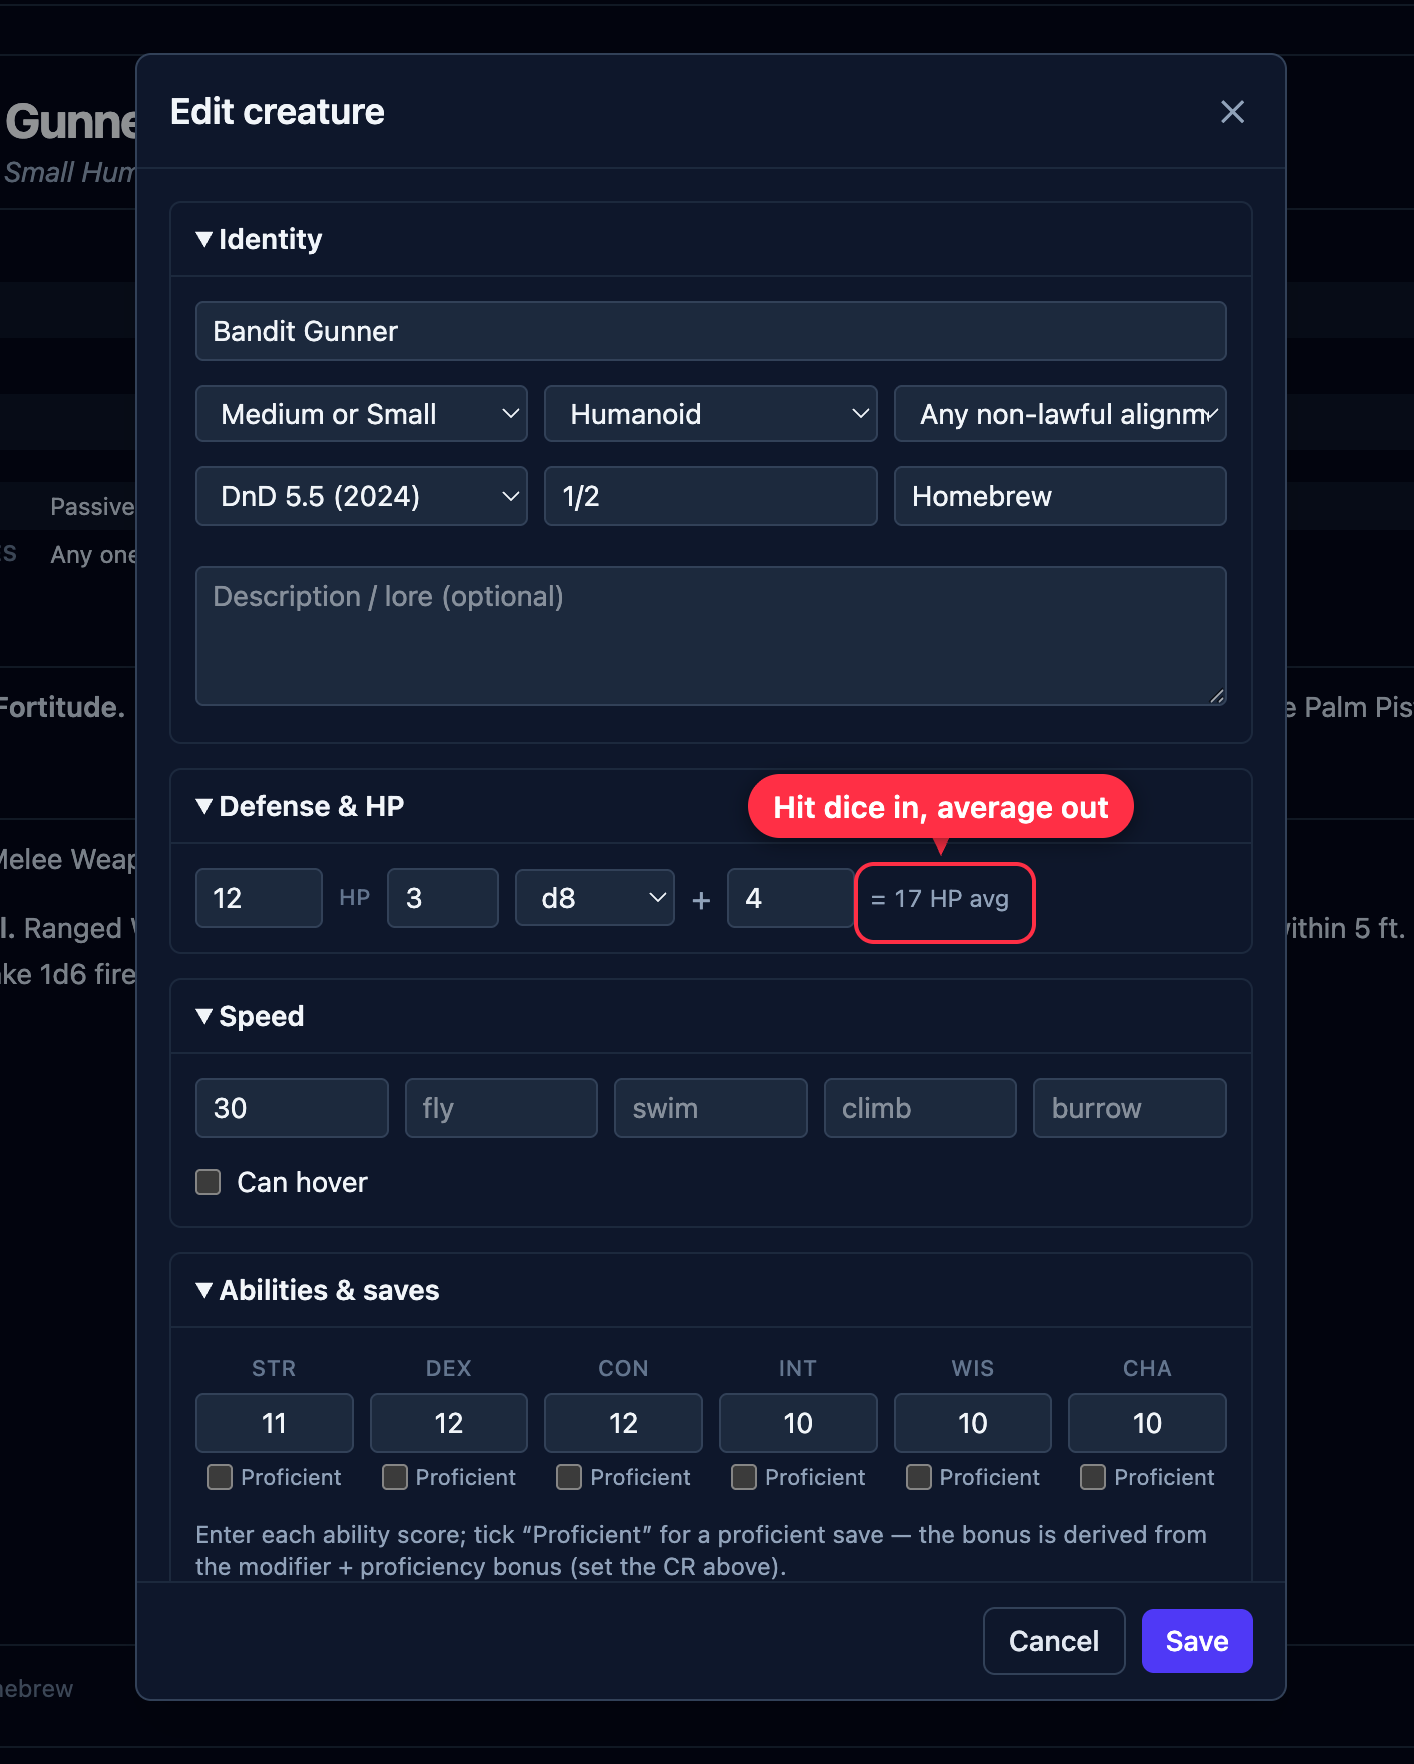
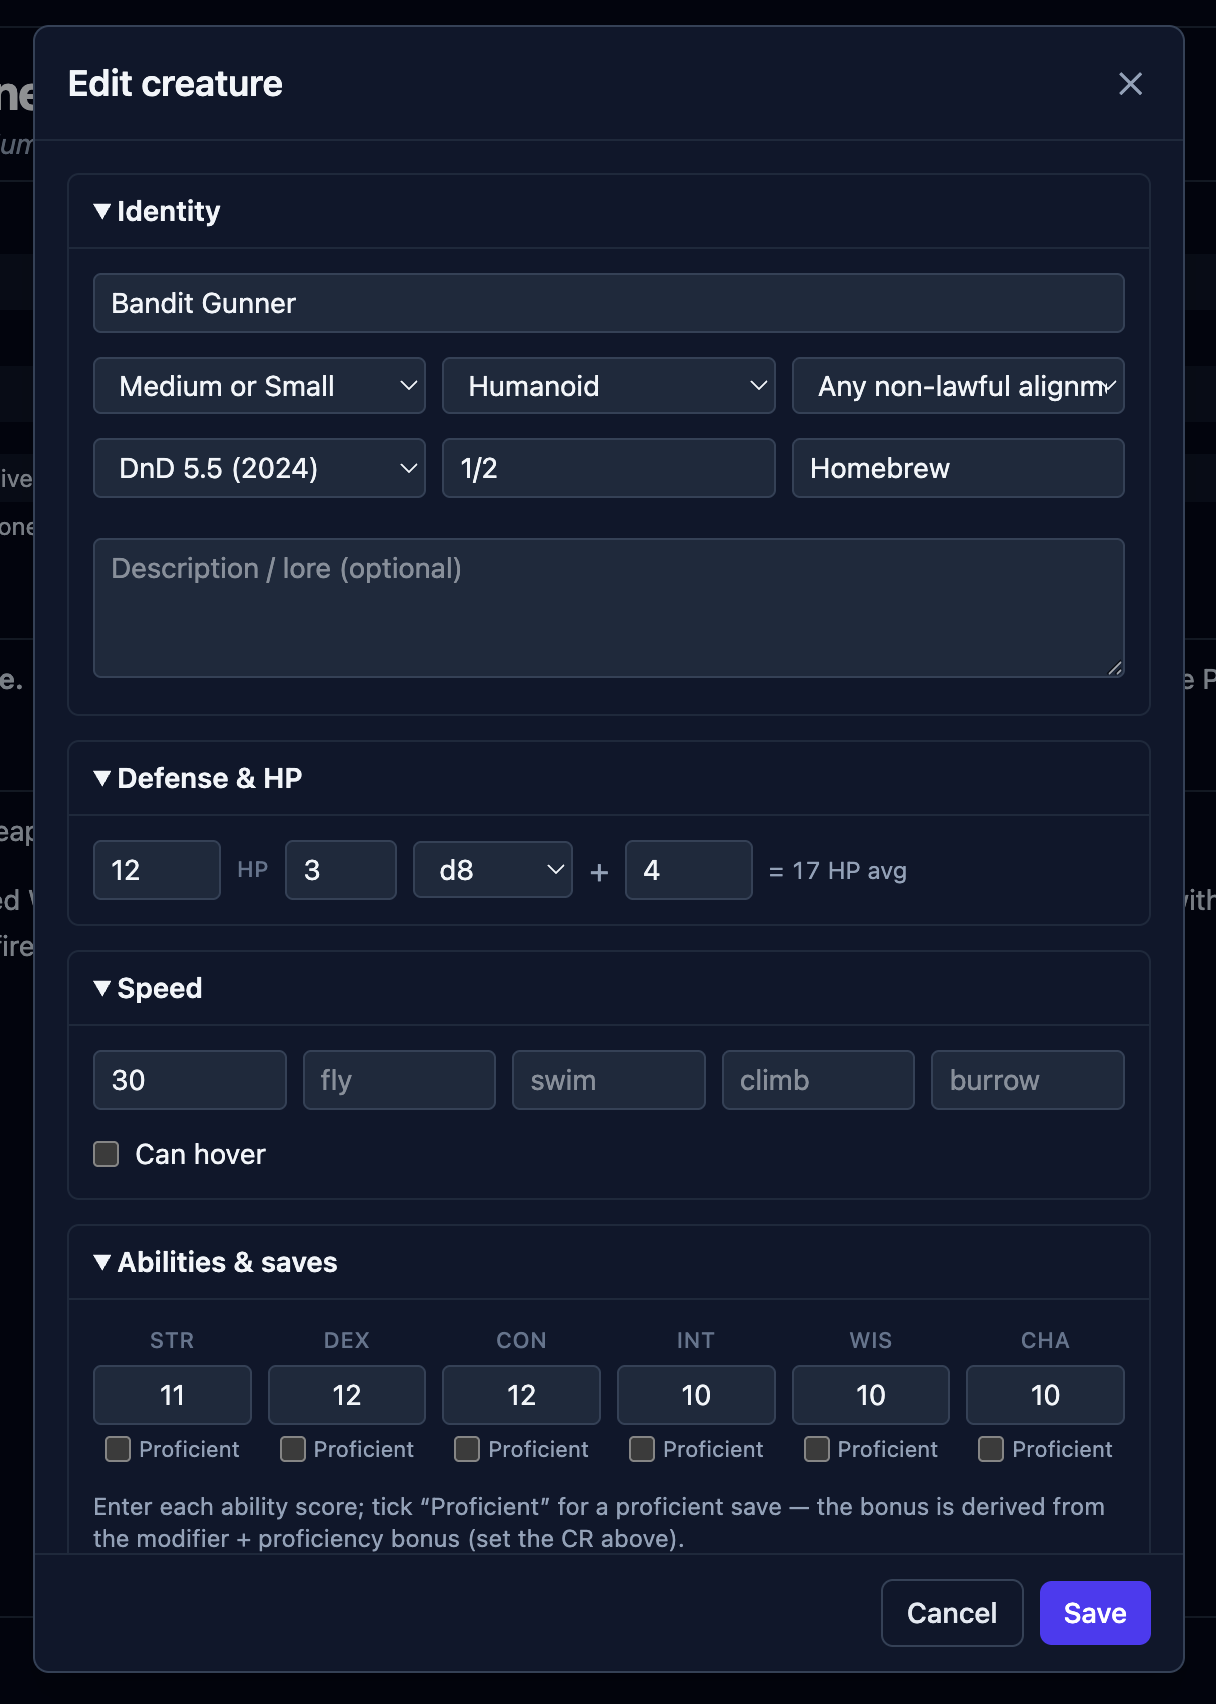
Docs: library/settings revisions, SEO frontmatter, and alt text
Compendium, settings, campaigns, making-your-own, and importer pages: content
revisions (split-out sections, sign-in notes, the full rule-set list, importer
Options and toolbar-pin steps with new screenshots).

Also: SEO description + keywords frontmatter on compendium and settings (held
back from the earlier SEO commit because their bodies were mid-edit); restored
descriptive alt text on the seven re-shot/added screenshots per STYLE.md; and
two typo fixes on making-your-own ("Creatig" and "One thing are").

diff --git a/docs/src/content/docs/library/compendium.md b/docs/src/content/docs/library/compendium.md
@@ -1,12 +1,17 @@
 ---
 title: The compendium
-description: The built-in reference of creatures, spells, characters, and campaigns — and how to turn different rule sets on or off.
+description: The built-in Dungeons and Dragons 5e reference of creatures, spells, characters, and campaigns — and how to turn different rule sets on or off.
+keywords:
+  - Dungeons and Dragons 5e SRD compendium
+  - DnD 5e monster and spell reference
+  - 5e stat blocks
+  - 2014 and 2024 rule sets
 ---
 
 The **compendium** is the reference OpenFray keeps for you. Open it with the book icon at
 the top of the screen.
 
-![The compendium, with its tabs, list and reading pane outlined in red and numbered one to three.](../../../assets/screens/compendium.png)
+![The compendium open to the Creatures tab, with the book icon that opens it outlined in red in the top toolbar.](../../../assets/screens/compendium.png)
 
 1. **The tabs** — creatures, spells, your characters, your campaigns.
 2. **The list** — search by name; every match shows here.
@@ -16,19 +21,19 @@ the top of the screen.
 Each row in the list is badged with where it came from, so you always know which book and
 which rules you're looking at:
 
-![A few rows of the creature list, with an entry's Core and 5.5e badges outlined in red.](../../../assets/screens/library-badges.png)
+![A few creature-list rows, with the source and edition badges on two entries outlined in red.](../../../assets/screens/library-badges.png)
 
 ## Creatures
 
-Every creature you can use, with its full stat block. This is the same list you pick from
-when you click **Add creature** — choosing one there drops a copy into your fight.
+Every creature you can use from the [rule sets you selected](#rule-sets), with its full stat block. This is the same list you pick from
+when you click **Add creature**.
 
 Each row is badged with the book it came from and which rules it uses, so you always know
-what you're looking at.
+what you're looking at. If it's one of your homebrew creations, the badge will show **Custom**.
 
 ## Spells
 
-Every spell in the [rule sets you have turned on](#rule-sets), with its full card:
+Every spell in the rule sets you selected, with its full card:
 casting time, range, components, how long it lasts, and what it does. You'll see the same
 card when you cast a spell, or when you point at a spell name inside a stat block.
 
@@ -36,30 +41,46 @@ card when you cast a spell, or when you point at a spell name inside a stat bloc
 
 Your saved players. Build a character once — armor, hit points, abilities, resistances,
 senses, and private GM notes — and drop them into any fight instead of typing them in
-again. This one needs an account.
+again.
 
-![The Characters tab, with a saved character selected and Add to encounter, Edit and Delete buttons.](../../../assets/screens/characters-tab.png)
+:::note[Sign in required]
+Saving and reusing player characters requires you to sign in with a free Google or Discord account.
+:::
 
-**Add to encounter** puts them straight on the board. The campaign each character belongs
-to is shown beside their name in the list, so a table's party stays recognisable when you
-run more than one game.
+![The Characters tab with a saved character selected, its stats and GM notes shown, and the Add to encounter button outlined in red.](../../../assets/screens/characters-tab.png)
+
+The campaign each character belongs to is shown beside their name in the list, so a table's party stays recognisable when you
+run more than one game. Click the **Add to encounter** button to add them straight on the initiative tracker.
 
 ## Campaigns
 
 Your games and their house rules. See
-[Campaigns & house rules](/docs/library/campaigns/). This one needs an account too.
+[Campaigns & house rules](/docs/library/campaigns/).
+
+:::note[Sign in required]
+Saving and using campaigns requires you to sign in with a free Google or Discord account.
+:::
 
 ## Rule sets
 
-The compendium shows the books you've turned on. OpenFray ships with Core Rules 2024 and
-2014, and with the Tome of Beasts books — tick the ones your table uses in **Settings**. See
-[Settings & appearance](/docs/reference/settings/#rule-sets).
+The compendium shows the books you've turned on. OpenFray ships with:
 
-## Making your own
+- **Core Rules 2024** (DnD 5.5e) — the newer rules. On by default.
+- **Core Rules 2014** (DnD 5e) — the older rules. Turn this on if that's what your table plays.
+- **Tome of Beasts 1, 2, and 3** (DnD 5e) — three books of extra creatures from Kobold Press.
 
-With an account you can build your own **creatures** and **spells** in a full editor, and
-they're kept in your library next to the built-in ones. See
-[Build your own](/docs/library/making-your-own/). To turn a D&D&nbsp;Beyond creature into an
+Select the ones your table uses in **Settings**. See [Settings & appearance](/docs/reference/settings/#rule-sets).
+
+## Homebrew content
+
+You can build your own **creatures** and **spells** in a full editor, and
+they're kept in your library next to the built-in ones. See [Build your own](/docs/library/making-your-own/).
+
+:::note[Sign in required]
+Creating homebrew creatures and spells requires you to sign in with a free Google or Discord account.
+:::
+
+To turn a D&D&nbsp;Beyond creature into an
 OpenFray creature without retyping it, see [the importer](/docs/library/importer/).
 
 :::note[Where the rules come from]

diff --git a/docs/src/content/docs/library/making-your-own.md b/docs/src/content/docs/library/making-your-own.md
@@ -8,35 +8,33 @@ keywords:
   - custom stat block
 ---
 
-The built-in books don't have everything — some famous creatures aren't in the SRD at
-all, and your table has its own homebrew. So you can build your own, and they sit in
-your library next to the built-in ones, ready to drop into any fight.
+The built-in books don't have everything — some famous creatures aren't in the Core Rules at
+all, and your table has its own homebrew creations. With OpenFray's homebrew content editor you can build your own,
+and they sit in your library next to the built-in ones, ready to drop into any fight.
 
-:::note[Needs an account]
-Your creations are saved to your account, so this needs you to be signed in. Everything
-else in the compendium works without one.
+:::note[Sign in required]
+Homebrew creations are stored in your account. This requires you to sign in with a free Google or Discord account.
 :::
 
 Both editors live in the [compendium](/docs/library/compendium/): open the
 **Creatures** or **Spells** tab and use the create button.
 
-## Making a creature
+## Creating a homebrew creature
 
 The form is a whole stat block, broken into collapsible sections you can work through in
 any order — **Identity**, **Defense & HP**, **Speed**, **Abilities & saves**, then
 skills, senses, traits, actions, reactions, legendary actions and spellcasting.
 
-![The creature editor, with the hit-dice fields and the derived average hit points outlined in red.](../../../assets/screens/custom-creature.png)
+![The creature editor on a Bandit Gunner, with its hit dice giving a derived 17 HP average and the ability scores filled in.](../../../assets/screens/custom-creature.png)
 
-**You enter what's true about the creature, and OpenFray does the arithmetic** from it:
+**You enter the stats of the creature, and OpenFray does the math** from it for you:
 
 - Give it a **challenge rating**, in Identity, and OpenFray knows its proficiency bonus.
   Everything below depends on it, so set it early.
 - In **Defense & HP**, give the **hit dice** — how many, which die, and any modifier. The
-  average appears beside them (_"= 17 HP avg"_), and that's the number the creature
-  enters play with.
+  average appears beside them (_"= 17 HP avg"_).
 - In **Abilities & saves**, type the six scores and tick **Proficient** on the saves it's
-  good at. The bonus is the modifier plus the proficiency bonus; you never type it.
+  good at. The bonus is the modifier plus the proficiency bonus, calculated for you automatically.
 - Skills work the same way — tick proficient, tick expertise where it applies.
 - For an attack, pick **which ability** it swings with. The to-hit is that ability's
   modifier plus proficiency, and the modifier is baked into the damage the way printed
@@ -57,7 +55,11 @@ gives you into **Import a creature**, on the Creatures tab:
 What lands in your library is an ordinary custom creature: editable, yours, and no
 different from one you built by hand.
 
-## Making a spell
+:::tip[Import your existing homebrew creatures]
+If you already created homebrew creatures on D&D Beyond, you can import them into OpenFray with the importer.
+:::
+
+## Creating a homebrew spell
 
 The spell form covers the card, in the same collapsible sections: **Identity** (name,
 level, school, rules version), **Casting** (time, range, duration, concentration, ritual,
@@ -67,10 +69,7 @@ utility spell: OpenFray shows the card and lets you adjudicate.
 
 ![The custom spell editor, showing the Identity, Casting, Description and Mechanics sections.](../../../assets/screens/custom-spell.png)
 
-Two things are worth calling out.
-
-**There's no save DC.** A spell doesn't own its DC — the creature casting it does. Say
-the spell needs a Dexterity save, and OpenFray uses the caster's number when it's cast.
+One thing is worth calling out.
 
 **Casting at higher levels** usually follows a pattern, so you describe the pattern once:
 give the extra damage **per slot above the spell's base level** (or, for a cantrip, per
@@ -78,7 +77,7 @@ tier as the caster levels up), and OpenFray expands that into the actual damage 
 level, showing you the result as you type. For spells that don't follow a neat pattern,
 switch to **Edit each level** and set them by hand.
 
-## Living with your own content
+## Where the homebrew creations live
 
 Your creatures and spells:
 
@@ -89,4 +88,6 @@ Your creatures and spells:
 - can be edited or deleted later from the bottom of their own card.
 
 Editing one **doesn't change a fight already in progress** — a creature you added to the
-board is a copy, taken at the moment you added it. Add it again to pick up your edits.
+initiative tracker is a copy of the one in the compendium, taken at the moment you added it.
+
+You need to add it again to a combat if you want the changes to show.

diff --git a/docs/src/content/docs/library/campaigns.md b/docs/src/content/docs/library/campaigns.md
@@ -10,12 +10,16 @@ keywords:
 
 A **campaign** is where you keep one game together. It holds the rules your table uses,
 so you set them once and they apply to every fight you run. Pick the campaign you're
-running from the box at the bottom of the console. Without a campaign — or without an
-account — OpenFray just uses the standard rules.
+running from the box at the bottom of the console. Without a campaign OpenFray just uses the default rules.
 
 Make and edit campaigns on the **Campaigns** tab of the
 [compendium](/docs/library/compendium/#campaigns). Each one shows its rules at a glance,
 and you can change them right there.
+
+:::note[Sign in required]
+Creating and using a campaign and its rules requires an account. Sign in with a free Google or Discord account.
+Without an account OpenFray uses the default rules.
+:::
 
 ## Which rules it's for
 
@@ -28,13 +32,13 @@ you whether or not you're signed in.
 
 ## House rules
 
-| Rule                    | What you can choose                                                                     |
-| ----------------------- | --------------------------------------------------------------------------------------- |
-| **Critical hit damage** | _Double the dice_ (standard); _Max normal dice + roll crit dice_; or _Double the total_ |
-| **Surprise round**      | _Initiative with disadvantage_ (2024); or _Skip the first turn_ (2014)                  |
-| **Creature HP**         | _Average_, _Roll_, _Min_ or _Max_, applied as each creature joins the fight             |
-| **Initiative ties**     | _Higher Dexterity_; _Players first_; or _Manual_, leaving the order to you              |
-| **Level up**            | _XP_, or _Milestone_                                                                    |
+| Rule                    | What you can choose                                                                              |
+| ----------------------- | ------------------------------------------------------------------------------------------------ |
+| **Critical hit damage** | _Double the dice_ (standard); _Max normal dice + roll crit dice_ (brutal); or _Double the total_ |
+| **Surprise round**      | _Initiative with disadvantage_ (DnD 5.5e); or _Skip the first turn_ (DnD 5e)                     |
+| **Creature HP**         | _Average_, _Roll_, _Min_ or _Max_, calculated as each creature joins the fight                   |
+| **Initiative ties**     | _Higher Dexterity_; _Players first_; or _Manual_, leaving the order to you                       |
+| **Level up**            | _XP_, or _Milestone_                                                                             |
 
 The crit and hit-point rules change the dice OpenFray rolls for creatures — it never
 rolls a player's attack. The surprise and tie rules change the initiative order.
@@ -51,17 +55,15 @@ what applies its rules to the fight in front of you:
 
 ![The campaign picker in the console footer, open, listing the available campaigns.](../../../assets/screens/campaign-picker.png)
 
+Selecting a campaign does not affect the combatants already added in the initiative tracker. Add new creatures to recalculate their hit points,
+or add new player characters as necessary.
+
 ## Leveling up: experience or milestone
 
-- **Experience points** — the usual way. Experience shows on stat blocks and in the
-  end-of-fight summary.
+- **Experience points** — the usual way. The experience points awarded by each creature shows on stat blocks and in the
+  end-of-fight summary, as a total and split for each player on the board (exluding friendly NPCs).
 - **Milestone** — you level the party up at story moments, so experience is just noise.
   Pick this and OpenFray hides it during a fight and in the summary.
 
 The [compendium's creature list](/docs/library/compendium/#creatures) always shows
 experience, whichever you pick — it's a reference, not a scoreboard.
-
-:::note[Needs an account]
-Campaigns are saved to your account, so this needs you to be signed in. Nothing here
-changes what you see without one — you always get the standard rules.
-:::

diff --git a/docs/src/content/docs/library/importer.md b/docs/src/content/docs/library/importer.md
@@ -12,14 +12,16 @@ The **OpenFray Importer** is a free browser add-on. It reads a creature's page o
 D&D&nbsp;Beyond and turns it into an OpenFray creature — so you don't have to type a
 whole stat block in by hand.
 
-## Get it
+## Download the importer
 
-- **Chrome or Edge** — [OpenFray Importer on the Chrome Web
+- **Google Chrome or Edge** — [OpenFray Importer on the Chrome Web
   Store](https://chromewebstore.google.com/detail/openfray-importer/cjooflanhdpfddpppllaelhlfpdinjfk).
   There's a link to it in OpenFray's **Settings** too.
-- **Firefox** — on the way.
+- **Firefox** — coming soon.
 
-Once it's installed you'll see the OpenFray icon in your browser's toolbar.
+Once it's installed pin it to your browser's toolbar for easy access.
+
+![Chrome's Extensions menu, with the pin icon beside OpenFray Importer outlined in red to pin it to the toolbar.](../../../assets/screens/importer-browser-pin.png)
 
 ## How to use it
 
@@ -51,10 +53,21 @@ The importer maps the whole stat block, including:
 - the spell list;
 - the flavor description.
 
-It works out from the page whether the creature uses the 2014 or 2024 rules.
+It works out from the page whether the creature uses the 5th edition (2014) or 5.5e (2024) rules.
 
-Two things it doesn't handle yet: 2014 innate spellcasting written into a creature's
-traits, and mythic actions.
+:::note[Mythic actions]
+Some creatures in the 5th edition rule set have _Mythic actions_. At this moment, OpenFray and the importer do not support them and they will ignore them when creating or importing a homebrew creature.
+:::
+
+### Settings
+
+Click **Options** in the importer's popup to toggle the following options:
+
+- _Include description_
+- _Include page number in source_
+- _Include link to source in description_
+
+![The importer's Options panel — three unchecked toggles above a Done button.](../../../assets/screens/importer-options.png)
 
 ## What it can and can't see
 

diff --git a/docs/src/content/docs/reference/settings.md b/docs/src/content/docs/reference/settings.md
@@ -1,6 +1,11 @@
 ---
 title: Settings & appearance
-description: Choose which rule sets appear, switch between light and dark, and find the importer — all without an account.
+description: Choose which Dungeons and Dragons 5e rule sets appear, switch between light and dark, and find the importer — all without an account.
+keywords:
+  - Dungeons and Dragons 5e rule sets
+  - DnD 5e 2014 and 2024 rules
+  - OpenFray settings
+  - Tome of Beasts library
 ---
 
 Two small things live outside the fight: which **rule sets** you play with, and whether the
@@ -12,7 +17,7 @@ needed. Open **Settings** from the gear at the top right.
 OpenFray ships with more than one set of rules, and with extra books of creatures. In
 **Settings**, tick the ones your table uses.
 
-![The Rule sets settings, with the list of rule sets outlined in red and labeled "Tick the ones your table plays".](../../../assets/screens/rule-sets.png)
+![The Rule sets panel in Settings, with Core Rules 2024 ticked and the other rule sets unticked.](../../../assets/screens/rule-sets.png)
 
 - **Core Rules 2024** — the newer rules. On by default.
 - **Core Rules 2014** — the older rules. Turn this on if that's what your table plays.
